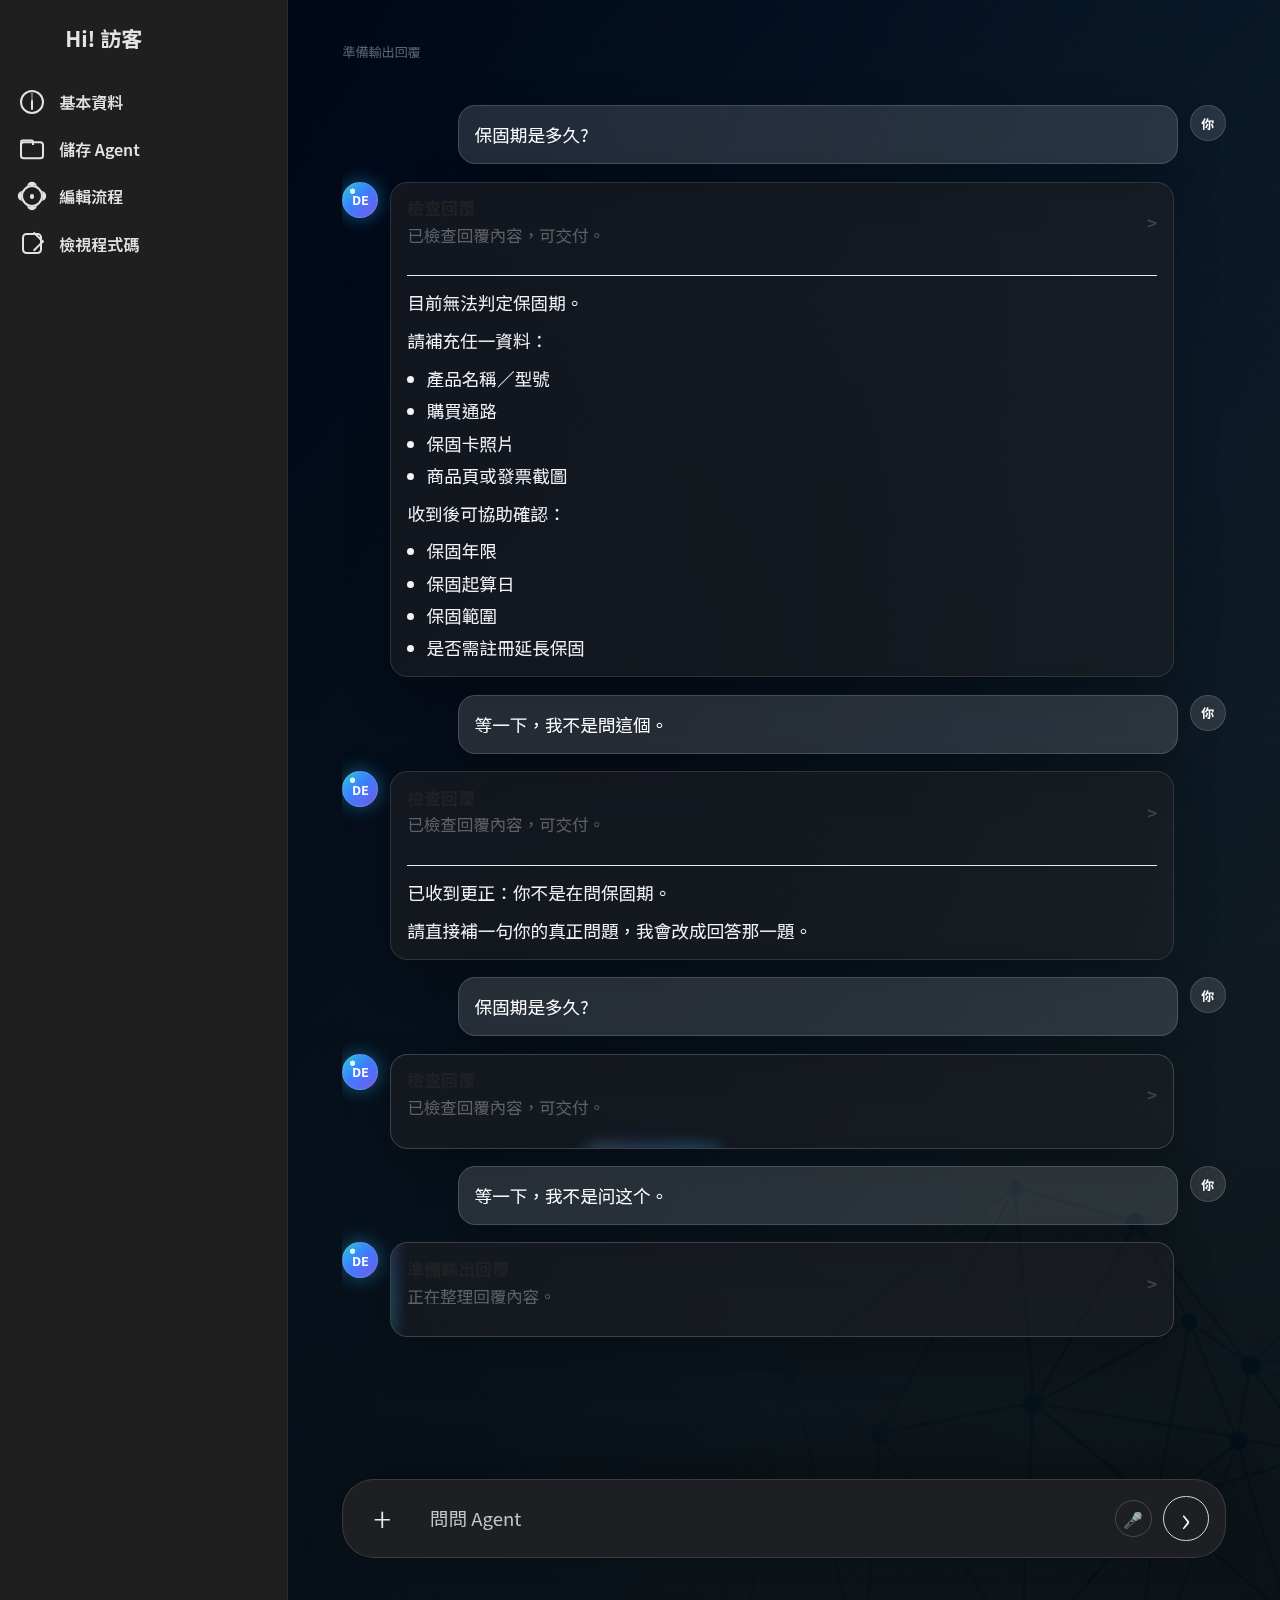
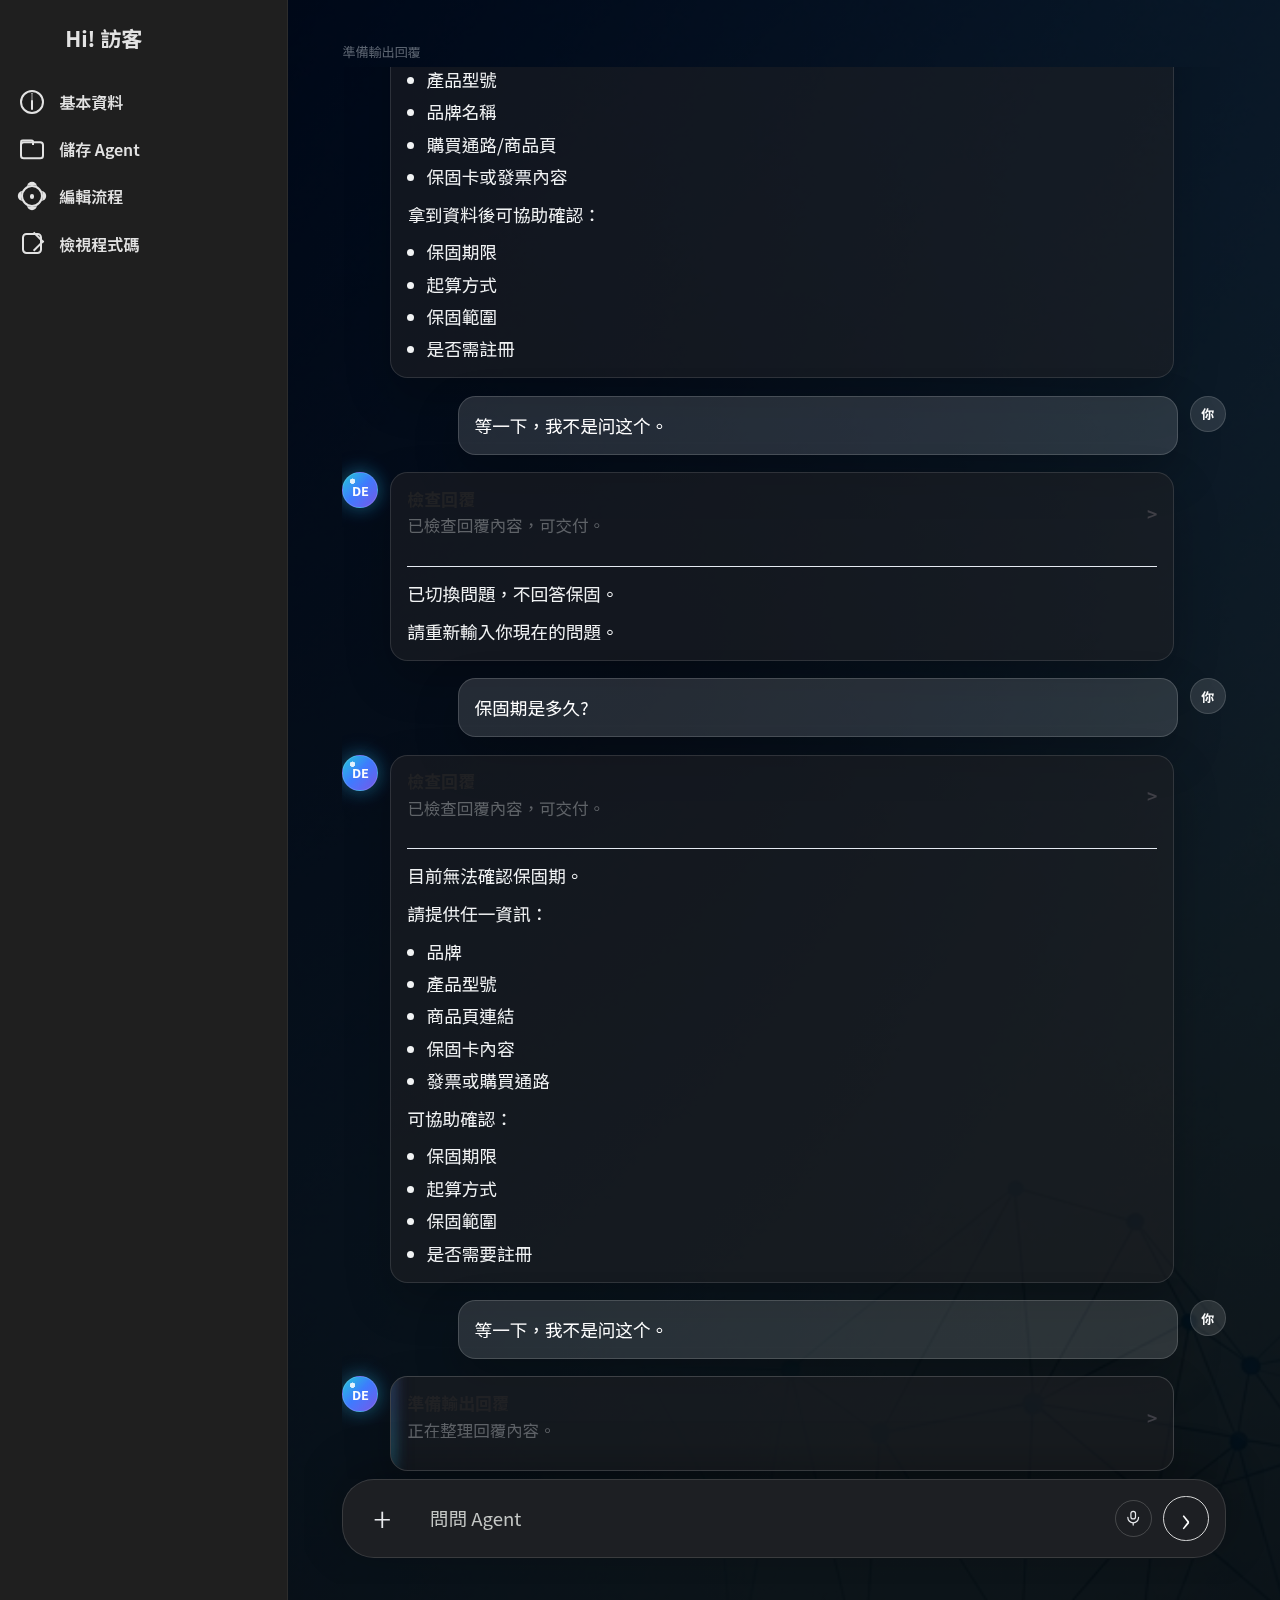
Draw the microphone, and let the bar follow the spectrum
The icons were emoji sitting beside icons this page draws itself, at somebody
else's weight. Both are line SVGs now, on currentColor like the sidebar.

The single level bar is fourteen bars driven by an AnalyserNode, and it follows
whichever end is making sound: the person while it listens, the agent's own
voice while it answers. An analyser with nothing downstream is never pulled and
reports silence for ever, which is what it did until it was given a gain of
zero to feed.

And the flakiness has a cause. A role with no deployment chosen was reported as
configured, because the credential check short-circuits when nothing is bound
and nothing folded the binding back in: the Builder said ready, the person
pressed 完成, and initialisation died on 找不到可用的 Key Vault 模型端點 with
no way back to the question. A test had pinned that as correct.

diff --git a/playground/static/js/runner/voice-conversation.js b/playground/static/js/runner/voice-conversation.js
@@ -16,7 +16,9 @@ const TRANSCRIBE_SAMPLE_RATE = 16000;
 const SYNTHESIS_SAMPLE_RATE = 24000;
 const FRAME_SAMPLES = 1024;
 
-export function bindVoiceConversation(page, { onTranscript, onStatus, onState, onLevel }) {
+const SPECTRUM_BANDS = 14;
+
+export function bindVoiceConversation(page, { onTranscript, onStatus, onState, onSpectrum }) {
 	if (page?.dataset.voice !== "true") {
 		return null;
 	}
@@ -29,6 +31,8 @@ export function bindVoiceConversation(page, { onTranscript, onStatus, onState, o
 		startedSpeakingAt: 0,
 		state: "starting",
 		paused: false,
+		listenAnalyser: null,
+		speakAnalyser: null,
 		carry: new Uint8Array(0),
 	};
 
@@ -124,6 +128,19 @@ export function bindVoiceConversation(page, { onTranscript, onStatus, onState, o
 			document.addEventListener("click", () => context.resume(), { once: true });
 		}
 		const source = context.createMediaStreamSource(microphone);
+		session.listenAnalyser = analyserFor(context);
+		source.connect(session.listenAnalyser);
+		// An analyser with nothing downstream is never pulled, so it reports
+		// silence for ever. A gain of zero gives it somewhere to go without
+		// putting the microphone through the speakers.
+		const silent = context.createGain();
+		silent.gain.value = 0;
+		session.listenAnalyser.connect(silent);
+		silent.connect(context.destination);
+		// Watching the frequencies rather than one loudness number, because a
+		// bar that only rises and falls says "a sound happened" while a
+		// spectrum says "your voice is what I am hearing".
+		watchSpectrum();
 		const meter = context.createScriptProcessor(FRAME_SAMPLES, 1, 1);
 		meter.addEventListener("audioprocess", (event) => {
 			send(event.inputBuffer.getChannelData(0), context.sampleRate);
@@ -134,14 +151,19 @@ export function bindVoiceConversation(page, { onTranscript, onStatus, onState, o
 	}
 
 	function send(samples, sampleRate) {
-		// Reported whether or not it is sent, so a paused microphone still shows
-		// the person that the page can hear them — the meter is how they tell a
-		// pause from a failure.
-		onLevel?.(loudness(samples));
 		if (session.paused || session.socket?.readyState !== WebSocket.OPEN) {
 			return;
 		}
 		session.socket.send(toServiceAudio(samples, sampleRate));
+	}
+
+	function watchSpectrum() {
+		// Whichever end is making sound: the agent's own voice while it answers,
+		// the person's while it listens. Advanced voice modes do the same, and
+		// it is the difference between a decoration and a display.
+		const analyser = session.playing.length ? session.speakAnalyser : session.listenAnalyser;
+		onSpectrum?.(analyser ? bandsOf(analyser) : new Array(SPECTRUM_BANDS).fill(0));
+		requestAnimationFrame(watchSpectrum);
 	}
 
 	function pause() {
@@ -189,7 +211,11 @@ export function bindVoiceConversation(page, { onTranscript, onStatus, onState, o
 		}
 		const piece = context.createBufferSource();
 		piece.buffer = buffer;
-		piece.connect(context.destination);
+		if (!session.speakAnalyser) {
+			session.speakAnalyser = analyserFor(context);
+			session.speakAnalyser.connect(context.destination);
+		}
+		piece.connect(session.speakAnalyser);
 		// Queued against the running clock rather than played on arrival, so the
 		// pieces join up instead of overlapping each other.
 		const startAt = Math.max(context.currentTime, session.playheadAt);
@@ -235,13 +261,32 @@ export function bindVoiceConversation(page, { onTranscript, onStatus, onState, o
 	return { sessionId: session.id, speak, stopPlaying, pause, resume, enter };
 }
 
-/** How loud a frame is, on the same 0-1 scale the microphone reports. */
-export function loudness(samples) {
-	let total = 0;
-	for (let index = 0; index < samples.length; index += 1) {
-		total += samples[index] * samples[index];
+function analyserFor(context) {
+	const analyser = context.createAnalyser();
+	// Small transform, heavily smoothed: this is a thing to glance at, not a
+	// measurement, and an unsmoothed spectrum flickers into noise.
+	analyser.fftSize = 128;
+	analyser.smoothingTimeConstant = 0.75;
+	return analyser;
+}
+
+/** The spectrum folded down to the handful of bars the page draws. */
+export function bandsOf(analyser) {
+	const bins = new Uint8Array(analyser.frequencyBinCount);
+	analyser.getByteFrequencyData(bins);
+	// Only the lower half: speech lives there, and the top of the range is
+	// empty most of the time, which would leave half the bars permanently flat.
+	const usable = Math.floor(bins.length / 2);
+	const perBand = Math.max(1, Math.floor(usable / SPECTRUM_BANDS));
+	const bands = [];
+	for (let band = 0; band < SPECTRUM_BANDS; band += 1) {
+		let total = 0;
+		for (let offset = 0; offset < perBand; offset += 1) {
+			total += bins[band * perBand + offset] || 0;
+		}
+		bands.push(total / perBand / 255);
 	}
-	return samples.length ? Math.sqrt(total / samples.length) : 0;
+	return bands;
 }
 
 /** Resample to the rate the transcription service takes, as 16-bit mono. */

diff --git a/playground/templates/runner.html b/playground/templates/runner.html
@@ -120,15 +120,15 @@
           </div>
           <textarea id="runner-message" name="message" rows="1" placeholder="問問 Agent"></textarea>
           {% if uses_voice %}
-          <button class="composer-icon-button" type="button" data-voice-toggle="voice" aria-label="改用語音" title="改用語音"><span aria-hidden="true">🎤</span></button>
+          <button class="composer-icon-button" type="button" data-voice-toggle="voice" aria-label="改用語音" title="改用語音"><svg class="composer-icon" viewBox="0 0 24 24" fill="none" stroke="currentColor" stroke-width="1.6" stroke-linecap="round" stroke-linejoin="round" aria-hidden="true"><rect x="9" y="3" width="6" height="10" rx="3"/><path d="M5 11a7 7 0 0 0 14 0"/><path d="M12 18v3"/></svg></button>
           {% endif %}
           <button class="composer-submit-button" type="submit" aria-label="送出訊息"><span aria-hidden="true">›</span><span class="visually-hidden">產生回覆</span></button>
         </div>
         {% if uses_voice %}
         <div class="composer-voice-row" data-voice-bar data-voice-state="starting">
-          <span class="voice-orb" data-voice-orb aria-hidden="true"><i data-voice-level></i></span>
+          <span class="voice-spectrum" data-voice-spectrum aria-hidden="true"><i></i><i></i><i></i><i></i><i></i><i></i><i></i><i></i><i></i><i></i><i></i><i></i><i></i><i></i></span>
           <span class="voice-state" data-voice-state-text role="status" aria-live="polite">正在開啟麥克風…</span>
-          <button class="composer-icon-button" type="button" data-voice-toggle="text" aria-label="改用打字" title="改用打字"><span aria-hidden="true">⌨</span></button>
+          <button class="composer-icon-button" type="button" data-voice-toggle="text" aria-label="改用打字" title="改用打字"><svg class="composer-icon" viewBox="0 0 24 24" fill="none" stroke="currentColor" stroke-width="1.6" stroke-linecap="round" stroke-linejoin="round" aria-hidden="true"><rect x="2.5" y="6" width="19" height="12" rx="2.5"/><path d="M6.5 9.8h.01M10 9.8h.01M13.5 9.8h.01M17 9.8h.01"/><path d="M6.5 13.2h.01M10 13.2h.01M13.5 13.2h.01M17 13.2h.01"/><path d="M8.8 15.9h6.4"/></svg></button>
         </div>
         {% endif %}
         <p class="inline-status" data-attachment-status>尚未選擇附件。</p>

diff --git a/playground/static/css/app.css b/playground/static/css/app.css
@@ -2843,29 +2843,35 @@ a { color: inherit; text-decoration: none; }
   line-height: 1;
 }
 
+/* Drawn, not typed: an emoji is somebody else's glyph at somebody else's
+   weight, and it sits beside icons this page draws itself. */
+.composer-icon {
+  width: 1.15rem;
+  height: 1.15rem;
+}
+
 .composer-icon-button:hover {
   border-color: rgba(255, 255, 255, 0.4);
 }
 
-.voice-orb {
-  position: relative;
+.voice-spectrum {
+  display: flex;
   flex: 0 0 auto;
-  width: 4rem;
-  height: 0.4rem;
-  overflow: hidden;
-  border-radius: 999px;
-  background: rgba(140, 180, 240, 0.25);
+  align-items: center;
+  gap: 2px;
+  height: 1.35rem;
 }
 
-.voice-orb i {
-  display: block;
-  width: 100%;
+.voice-spectrum i {
+  width: 3px;
   height: 100%;
   border-radius: 999px;
   background: #6fb2ff;
-  transform: scaleX(0);
-  transform-origin: left center;
-  transition: transform 90ms linear;
+  /* Scaled from the middle so the bars read as a waveform rather than a chart,
+     and on the compositor so fourteen of them can move every frame. */
+  transform: scaleY(0.08);
+  transform-origin: center;
+  transition: transform 70ms linear;
 }
 
 .voice-state {
@@ -2874,8 +2880,9 @@ a { color: inherit; text-decoration: none; }
 
 /* Speaking and being interrupted are the two states a person needs to read at
    a glance, so they are the two that change colour. */
-.composer-voice-row[data-voice-state="speaking"] .voice-orb i { background: #6fe0b0; }
-.composer-voice-row[data-voice-state="interrupted"] .voice-orb i { background: #ffc878; }
+.composer-voice-row[data-voice-state="speaking"] .voice-spectrum i { background: #6fe0b0; }
+.composer-voice-row[data-voice-state="interrupted"] .voice-spectrum i { background: #ffc878; }
+.composer-voice-row[data-voice-state="paused"] .voice-spectrum i { background: rgba(160, 175, 195, 0.5); }
 .composer-voice-row[data-voice-state="denied"] .voice-state,
 .composer-voice-row[data-voice-state="unavailable"] .voice-state { color: #ff9c9c; }
 

diff --git a/playground/static/js/runner/runner-page.js b/playground/static/js/runner/runner-page.js
@@ -980,7 +980,7 @@ bindInputComposer(form, async (payload) => {
 
 const voiceBar = document.querySelector("[data-voice-bar]");
 const voiceStateText = document.querySelector("[data-voice-state-text]");
-const voiceLevel = document.querySelector("[data-voice-level]");
+const voiceBars = document.querySelectorAll("[data-voice-spectrum] i");
 const voiceToggles = document.querySelectorAll("[data-voice-toggle]");
 
 const VOICE_STATES = {
@@ -1029,12 +1029,13 @@ const voice = bindVoiceConversation(runnerPage, {
 		}
 	},
 	onState: showVoiceState,
-	onLevel: (level) => {
-		if (voiceLevel) {
-			// Scaled so ordinary speech fills most of the bar; the point is to
-			// show that something is being heard, not to be a meter.
-			voiceLevel.style.transform = `scaleX(${Math.min(1, level * 6).toFixed(3)})`;
-		}
+	onSpectrum: (bands) => {
+		voiceBars.forEach((bar, index) => {
+			// A floor so the row never collapses into nothing: a flat line reads
+			// as broken, and silence is not the same as not working.
+			const height = Math.max(0.08, Math.min(1, (bands[index] || 0) * 1.6));
+			bar.style.transform = `scaleY(${height.toFixed(3)})`;
+		});
 	},
 });
 

diff --git a/tests/test_playground_contracts.py b/tests/test_playground_contracts.py
@@ -469,7 +469,10 @@ def test_deployment_options_follow_reachable_modules_and_require_selection():
     assert [requirement["role"] for requirement in state["requirements"]] == ["perceive", "plan", "retrieve", "action"]
     assert state["selections"] == {"perceive": "", "plan": "", "retrieve": "", "action": ""}
     assert state["binding_missing_roles"] == {"perceive": True, "plan": True, "retrieve": True, "action": True}
-    assert state["configured"] is True
+    # Nothing is bound yet, so nothing is configured. This line used to assert
+    # the opposite, which is how an agent with no deployments chosen could be
+    # finished in the Builder and then fail to start.
+    assert state["configured"] is False
     retrieve_requirement = next(r for r in state["requirements"] if r["role"] == "retrieve")
     assert {option["id"] for option in retrieve_requirement["options"]} == {"embedded-large", "embedded-small"}
 
@@ -2457,3 +2460,23 @@ def test_an_uploaded_document_can_be_taken_back_off(tmp_path, monkeypatch):
         missing = client.post("/playground/builder/uploads/delete", json={"name": "never-uploaded.md"})
         assert missing.status_code == 404
         assert missing.get_json()["updated"] is False
+
+
+def test_an_unbound_deployment_is_not_a_configured_one():
+    """The Builder said ready, the runner then died on the missing binding.
+
+    A role with no deployment chosen was reported as configured, because the
+    credential check short-circuits when nothing is bound and nothing folded
+    the binding back in. The readiness check passed, the person pressed 完成,
+    and initialisation failed with 找不到可用的 Key Vault 模型端點 — with no
+    way back to the question that would have fixed it.
+    """
+    spec = build_spec(("input_type", "voice"), ("output_format", "voice"), ("failure_policy", "retry"))
+
+    state = model_endpoints.endpoint_state(
+        spec, {"action": "gpt-54", "transcribe": "transcribe", "tts": "tts"}
+    )
+
+    assert state["binding_missing_roles"]["reflect"] is True
+    assert state["configured_roles"]["reflect"] is False
+    assert state["configured"] is False

diff --git a/spikes/realtime-interjection/walk_the_seam.py b/spikes/realtime-interjection/walk_the_seam.py
@@ -218,6 +218,13 @@ async def main() -> int:
                 if not seen_states or seen_states[-1] != state:
                     seen_states.append(state)
                     print(f"  {second:>2}s 語音列: {state}")
+                if second in (9, 15, 25):
+                    spectrum = await browser.evaluate(
+                        "Array.from(document.querySelectorAll('[data-voice-spectrum] i'))"
+                        ".map((bar) => Number((bar.style.transform.match(/[\\d.]+/) || [0])[0]).toFixed(2))"
+                        ".join(' ')"
+                    )
+                    print(f"  {second:>2}s 頻譜: {spectrum}")
                 if second == 9:
                     await browser.shoot("heard-the-question")
                 if second == 16:

diff --git a/playground/services/model_endpoints.py b/playground/services/model_endpoints.py
@@ -71,7 +71,12 @@ def endpoint_state(spec: dict, selections: dict[str, str] | None) -> dict[str, o
         for requirement in requirements
     }
     configured_roles = {
+        # Bound *and* holding credentials. The credential check short-circuits
+        # when nothing is bound, so on its own it reported an unchosen
+        # deployment as configured — the Builder let the agent be finished and
+        # the runner then failed to start on the binding that was never made.
         requirement.role: not credential_missing_roles[requirement.role]
+        and not binding_missing_roles[requirement.role]
         for requirement in requirements
     }
     return {
